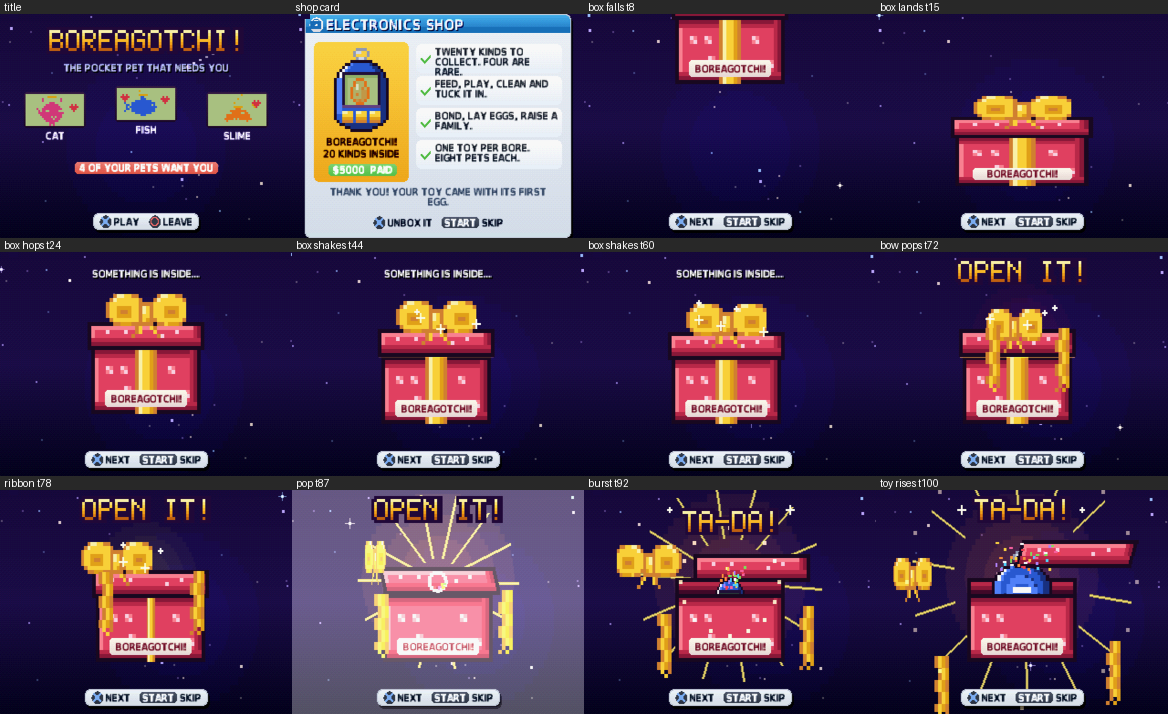
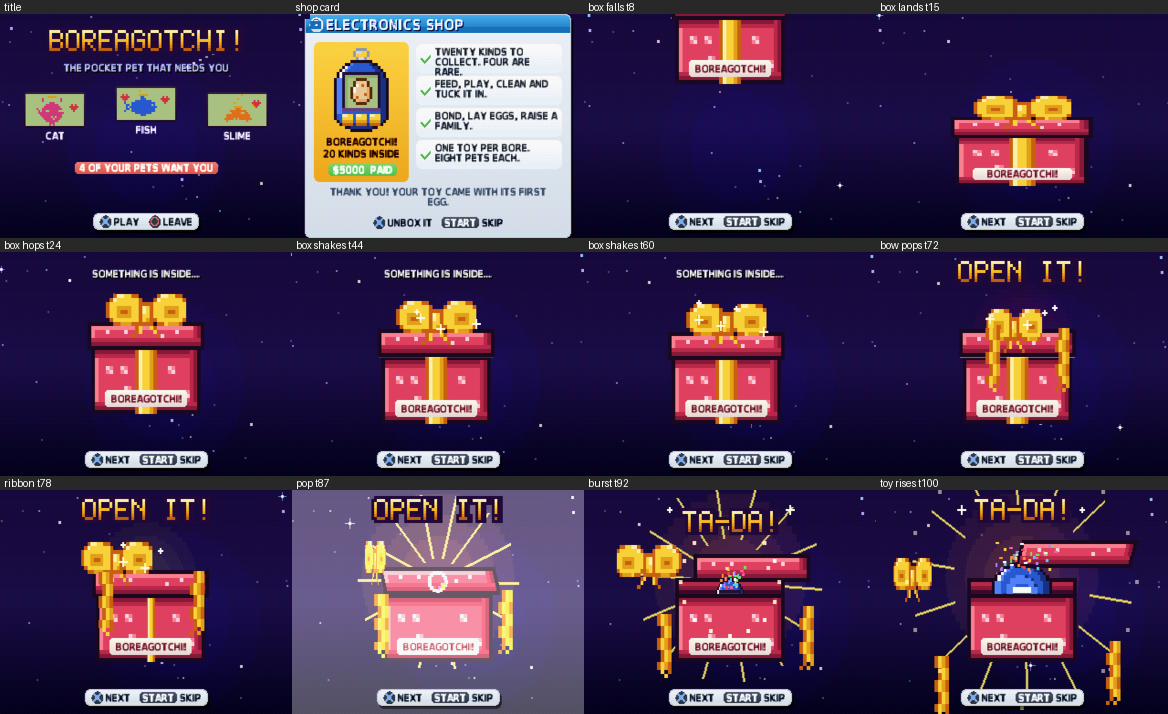
Boreagotchi eggs: table-driven egg_rgb shared by LCD, toy and hatching, docs, shots, numbers
Claude-Session: https://claude.ai/code/session_01HmRg38Ho1eHKsYp7LCd8R6

diff --git a/src/gotchi_ui.c b/src/gotchi_ui.c
@@ -171,7 +171,7 @@ static const char *const *egg_make(int kind, int pat, int crack) {   // the plai
     if (crack && kind < 2) for (int n = 0; n < fsCrkN[kind][crack]; n++) { char *c = &eggBuf[fsCrk[kind][n * 2] >> 4][fsCrk[kind][n * 2] & 15]; *c = (*c == 'o' || *c == 'g') ? 'u' : (char)fsCrk[kind][n * 2 + 1]; }   // (a crack through a spot is light)
     return eggRow;
 }
-static const char eggKeys[] = "#mdhoulg";   // an egg sprite's keys; on the dots they are the values 16 up (egg_rgb makes the colours)
+static const char eggKeys[] = "#mdohulg";   // an egg sprite's keys; on the dots they are the values 16 up (egg_rgb makes the colours)
 static int egg_pat(const Blob *b, const Kin *k) { return (b->sp >= 16 || k->mut) ? FS_EGG_N - 1 : b->sp % (FS_EGG_N - 1); }   // the kind picks the pattern, the rare ones are gold
 static void egg_dots(const char *const *r, int w, int h, int x, int y, int tilt) {   // a sprite onto the dots; its top leans by tilt dots, the foot stays
     for (int j = 0; j < h; j++) { int sh = tilt * (h - 1 - j) / (h - 1); for (int i = 0; i < w; i++) if (r[j][i] != '.') P(x + i + sh, y + j, 16 + (int)(strchr(eggKeys, r[j][i]) - eggKeys)); }
@@ -223,19 +223,16 @@ static void scene(const Blob *b, const Kin *k, int fr, int look, int mood) {
 }
 static const u8 PAL[10][3] = { { 28, 44, 24 }, { 214, 58, 120 }, { 40, 92, 214 }, { 226, 112, 24 }, { 126, 64, 200 }, { 20, 150, 140 }, { 196, 40, 44 }, { 218, 160, 10 }, { 54, 44, 90 }, { 214, 222, 234 } };
 static const u8 INKV[5][3] = { { 0, 0, 0 }, { 0, 0, 0 }, { 214, 50, 70 }, { 48, 96, 214 }, { 220, 160, 18 } };
-static void egg_rgb(int ink, int key, u8 *o) {   // an egg's colour for a key (see eggKeys), from the pet's colour (PAL row): a cream body leaning to it, a shade, spots, a dark outline of it
-    static const u8 cr[3] = { 240, 238, 206 }; const u8 *in = PAL[ink % 10];
-    for (int i = 0; i < 3; i++) switch (key) {
-        case '#': o[i] = (u8)(in[i] * 42 / 100); break; case 'm': o[i] = (u8)((cr[i] * 74 + in[i] * 26) / 100); break; case 'd': o[i] = (u8)((cr[i] * 48 + in[i] * 52) / 100); break;
-        case 'o': o[i] = (u8)(in[i] * 92 / 100); break; case 'h': o[i] = i == 2 ? 240 : 255; break; case 'u': o[i] = i == 0 ? 255 : i == 1 ? 250 : 190; break;
-        case 'g': o[i] = i == 0 ? 255 : i == 1 ? 208 : 60; break; default: o[i] = i == 0 ? 150 : i == 1 ? 176 : 108; break; }
+static void egg_rgb(int ink, int key, u8 *o) {   // an egg's colour for a key (an index in eggKeys), from the pet's colour (PAL row): a cream body leaning to it, a shade, spots, a dark outline of it
+    static const u8 mx[4][2] = { { 0, 42 }, { 74, 26 }, { 48, 52 }, { 0, 92 } }, fx[4][3] = { { 255, 255, 240 }, { 255, 250, 190 }, { 150, 176, 108 }, { 255, 208, 60 } }, cr[3] = { 240, 238, 206 };
+    const u8 *in = PAL[ink % 10]; for (int i = 0; i < 3; i++) o[i] = key < 4 ? (u8)((cr[i] * mx[key][0] + in[i] * mx[key][1]) / 100) : fx[key - 4][i];
 }
 // the dots onto the screen: runs of one ink are joined into one box, a thin gap under each row gives the LCD its lines
 static void dots_draw(int x, int y, int s, int c0, int c1, int xa, int xb) {
     for (int j = c0; j < c1; j++) {
         for (int i = xa; i < xb;) {
             int v = dot[j][i]; if (!v) { i++; continue; } int k = i; while (k < xb && dot[j][k] == v) k++;
-            u8 e[3]; const u8 *c; if (v >= 16) { egg_rgb(lcdCol, eggKeys[v - 16], e); c = e; } else c = lcdCol == 8 ? PAL[8] : v == 1 ? PAL[lcdCol] : INKV[v];
+            u8 e[3]; const u8 *c; if (v >= 16) { egg_rgb(lcdCol, v - 16, e); c = e; } else c = lcdCol == 8 ? PAL[8] : v == 1 ? PAL[lcdCol] : INKV[v];
             gfx_rect(x + (i - xa) * s, y + (j - c0) * s, (k - i) * s, (s >= 3 && v < 16) ? s - 1 : s, c[0], c[1], c[2], 0); i = k;   // (an egg is square dots, no gap)
         }
     }

diff --git a/tools/make_gotchi_first.py b/tools/make_gotchi_first.py
@@ -330,7 +330,7 @@ def preview(path):
 def emit_json(path):   # the same art for any other port: {sprites: {name: [rows]}, palette: {key: [r, g, b]}, mapped: how the game colours the keys it sets, font: {char: 7 rows of 5}}
     import json
     f = {c: [v[i * 5:i * 5 + 5] for i in range(7)] for c, v in FNT.items()}
-    mapped = {'S': 'shell, owner colour + 40', 's': 'shell, owner colour', 'z': 'shell, owner colour * 0.6', 'L': 'LCD on (172,196,128) / off (58,72,70)', 'l': 'LCD shade on (150,176,108) / off (44,56,56)', '#': 'egg outline: pet colour * 0.42', 'm': 'egg body: cream (240,238,206) 74% + pet colour 26%', 'd': 'egg shade: cream 48% + pet colour 52%', 'o': 'egg spots: pet colour * 0.92', 'h': 'highlight (255,255,240)', 'u': 'light in a crack (255,250,190)', 'g': 'gold (255,208,60)', 'l': 'LCD shade (150,176,108), the ground shadow'}
+    mapped = {'S': 'shell, owner colour + 40', 's': 'shell, owner colour', 'z': 'shell, owner colour * 0.6', 'L': 'LCD on (172,196,128) / off (58,72,70)', 'l': 'LCD shade on (150,176,108) / off (44,56,56); also the egg\'s ground shadow', '#': 'egg outline: pet colour * 0.42', 'm': 'egg body: cream (240,238,206) 74% + pet colour 26%', 'd': 'egg shade: cream 48% + pet colour 52%', 'o': 'egg spots: pet colour * 0.92', 'h': 'highlight (255,255,240)', 'u': 'light in a crack (255,250,190)', 'g': 'gold (255,208,60)', }
     eg = {'patterns': {'EGG%s%d' % (k_, p_): egg_runs(k_, p_) for k_ in 'BLS' for p_ in range(EGG_N)}, 'cracks': {k_: {'cells': crack_cells(k_)[0], 'stage_counts': crack_cells(k_)[1]} for k_ in 'BL'}}
     spr = dict(S); spr.update(FULL)
     json.dump({'sprites': spr, 'egg_parts': eg, 'palette': {k: list(v) for k, v in FPAL.items()}, 'mapped': mapped, 'font': f}, open(path, 'w'), indent=0)

diff --git a/docs/GOTCHI_FIRST_ART.md b/docs/GOTCHI_FIRST_ART.md
@@ -1,14 +1,24 @@
 # Boreagotchi first-run art (portable data for the DS port)
 
 Made by `python3 tools/make_gotchi_first.py [preview.png]`. It writes two files with the same data:
-- `src/gotchi_first_art.h`: plain C. `FS_<NAME>[]` = array of row strings, `FS_<NAME>_W`, `FS_<NAME>_H`. Also `FS_FONT_CH`, `FS_FONT[]` (5x7 glyphs, 35 chars each, '#' = on), `FS_PAL[][4]` (key char, r, g, b), `FS_PAL_N`.
-- `docs/gotchi_first_art.json`: `sprites`, `palette`, `mapped`, `font`. Same content for tools.
+- `src/gotchi_first_art.h`: plain C. `FS_<NAME>[]` = array of row strings, `FS_<NAME>_W`, `FS_<NAME>_H`. Also `FS_FONT_CH`, `FS_FONT[]` (5x7 glyphs, 35 chars each, '#' = on), `FS_PAL[][4]` (key char, r, g, b), `FS_PAL_N`, and the egg parts (below: `FS_EGG?_P0..6`, `FS_CRACK?`, `FS_CRACK?_N`, `FS_EGG_N`).
+- `docs/gotchi_first_art.json`: `sprites` (every sprite, and every egg and crack overlay in full), `egg_parts` (the same patterns and cracks as the header has them), `palette`, `mapped`, `font`. Same content for tools.
 
-Sprites (one char = one art pixel, '.' = clear): BOX_BODY 30x17, BOX_LID 32x7, BOX_MOUTH 30x5, RIB_BODY, RIB_LID, BOW 22x12, TAIL_L, TAIL_R, TOY_FRONT / TOY_BACK 22x28 (handheld toy), EGG0-3 14x17 (4 wobble frames) and EGGS0-3 7x9 (small), CRACK1-3 (overlays), EGGCUP (bottom shell), SHARD0-3 (4x4), SPK_S/M/L (twinkles).
+Sprites (one char = one art pixel, '.' = clear): BOX_BODY 30x17, BOX_LID 32x7, BOX_MOUTH 30x5, RIB_BODY, RIB_LID, BOW 22x12, TAIL_L, TAIL_R, TOY_FRONT / TOY_BACK 22x28 (handheld toy), EGGB / EGGL / EGGS (the plain egg in three sizes, below), EGGCUP (bottom shell, 14x9 with its shadow), SHARD0-3 (4-5 dots), SPK_S/M/L (twinkles). TOY_FRONT's LCD is 12x11 art pixels (rows 9-19), so the 8x9 egg sits in the middle of it with a dot to spare above and below; the buttons are one row lower than in the first version.
 
 Colour keys:
 - Fixed keys are in `FS_PAL` (gold, box red, ribbon, LCD green, outline, white).
-- Mapped at run time (see `f_setup` in src/gotchi_first.inc): shell `S`/`s`/`z` = owner colour light/base/dark; LCD `L`/`l` = 172,196,128 / 150,176,108 when on, dark grey when off; egg ink `#` = pet colour, `m d o` = pet colour mixed into the LCD green 22 / 48 / 72 percent, `h` = highlight (LCD green 55 percent to white), `u` = 255,248,190.
+- Mapped at run time (see `f_setup` in src/gotchi_first.inc): shell `S`/`s`/`z` = owner colour light/base/dark; LCD `L`/`l` = 172,196,128 / 150,176,108 when on, dark grey when off (`l` is also the egg's ground shadow). Egg keys (the same sums are `egg_rgb` in src/gotchi_ui.c, so the dots of the LCD, the toy's LCD and the hatching agree; ink = the pet's colour, PAL row of gotchi_ui.c, 0 is the LCD's dark green):
+  `#` outline = ink x 0.42; `m` body = cream (240,238,206) 74% + ink 26%; `d` shade = cream 48% + ink 52%; `o` spots = ink x 0.92; `h` highlight = 255,255,240; `u` light in a crack = 255,250,190; `g` gold = 255,208,60 (the rare egg's stars).
+
+## Eggs (all of them: pet view, basket, home, tree, day card, guide, toy LCD, hatching)
+
+One design in three sizes, all symmetric about the middle (an even width, so the 32-dot LCD's own middle is between dots 15 and 16): a one-dot dark outline, a light body, a shade down the right and along the bottom, a highlight top left, no dithering, a ground shadow in the LCD's shade.
+- `EGGB` 14x17 + 2 shadow rows: the hatching, drawn 5 px a dot (square dots; the baby is drawn at 6). `EGGL` 10x12 + 1 shadow row: one dot of the 32x16 LCD in the pet view (5 px, square, no scanline gap), basket and home (2 px), tree, day card and guide tiles (1 to 2 px); it sits in cols 11-20, rows 2-14. `EGGS` 8x9: inside the toy's LCD (3 px a dot on the shop card, 5 px on the egg card, 2.5 px in the box reveal).
+- Seven patterns per size: 0 freckles, 1 bands, 2 zigzag, 3 patches, 4 polka dots, 5 heart, 6 the rare one (gold stars; used when the kind is 16 or more or the pet has a mutation). The kind picks it (`kind % 6`); the colour is the family colour of the pet, so one kind has one pattern in each of its seven colours.
+- The header holds the plain egg per size and the rest as data: `FS_EGG?_P<n>[]` = runs of spots `{x | y << 4, length | 128 if gold}` ending in 0,0 (they replace body, shade and highlight cells, the outline stays); `FS_CRACKB[]` / `FS_CRACKL[]` = crack cells `{x | y << 4, key}`, stage n is the first `FS_CRACK?_N[n]` cells (stage 1 a hairline from the top, 2 a long crack with a branch, 3 the split all round with light along it). A crack through a spot is drawn light. The game puts an egg together in a small buffer (`egg_make` in src/gotchi_ui.c); a port may do the same, or take the whole sprites from the JSON (`EGGB0`..`EGGB6`, `EGGL?`, `EGGS?`, `CRACKB1`..`CRACKB3`, `CRACKL1`..`CRACKL3`, overlays drawn over the egg of the same size).
+- Wobble: a lean, the top row-shifted and the foot still, in whole art pixels (`tilt * (h-1-row) / (h-1)`, rounded towards zero on the dots; `fsq` rounds the hatching and toy eggs to whole pixels). The pet view eggs lean 1 to 2 dots in a slow rock now and then (every 24 steps of 3 a second, every 12 once it cracks); the cracks follow the egg's age: 15 minutes a hairline, 17 a long crack, 19 the split (it hatches at 20), the same three stages as the hatching.
+- Hatching: the egg is centred in the LCD (5 px a dot, 6 px of room above and below with its shadow), rocks in the same windows, the cracks above, the LCD brightens as the light grows (no halo round the egg), the baby stands in the bottom shell (EGGCUP, 14x9 with a ragged edge and the light of the inside along it), shards fly.
 
 Drawing: each row is run-length merged into rectangles. Pixel width in 16ths (so scales like 2.5 work), height whole pixels. Extras: tilt (row shear, for wobble), flip, clip box (the LCD). On the DS draw runs as filled rects or blit into a tile; the numbers do not depend on the PS1.
 

diff --git a/docs/GOTCHI_V48.md b/docs/GOTCHI_V48.md
@@ -30,3 +30,18 @@ Shots: before docs/gotchi_first_before_1.png and _2.png; after docs/gotchi_first
 - Code: src/gotchi_first.inc (sky, sprite and banner helpers), src/gotchi_first_ui.inc (screens), src/gotchi_first_art.h and docs/gotchi_first_art.json (made by tools/make_gotchi_first.py). Timeline: UB_POP 86, UB_DONE 130, UB_END 330 (60 Hz ticks).
 - Test hook: build with -DAUTO_GOTCHI=0 -DAUTO_GSEQ and run test/gseq.sh TAG (steps listed in test/gseq_tab.h); it writes docs/gotchi_first_TAG_N.png. A readout of the largest 2D packet use per step is in the script's last comment (peak 17,088 of 59,392 bytes).
 - Size: GOTCHI.OVL 149,156 bytes (+2,632 bss = 151,788 of 156,096). The slot grew from 72 to 76 sectors, so the disc layout changed again; old PPF packs do not fit. Resident RAM: 11,688 bytes free past _end on 2 MB (was 11,720, 32 bytes more for the include and cue glue). Save format unchanged (still VERSION 48; old saves load).
+
+## Eggs redrawn (every egg of the toy)
+
+Shots: before docs/gotchi_egg_before_1.png to _3.png, after docs/gotchi_egg_after_1.png to _3.png (34 tiles each, the real 292x224 crop: toy cards, pet view with every pattern and the three crack stages, basket, home, tree, day card, guide pages 3 and 4, hatching). Portable data and rules: docs/GOTCHI_FIRST_ART.md. The first-run sheets docs/gotchi_first_after_1.png to _3.png were shot again with the new art.
+
+- What was wrong: the pet view egg was dot art (an ellipse with a few holes, cracks as three lines at age 15); the guide tile showed it dark and "cracking" (age 16); the hatching egg was a faint tan body with a yellow halo disc, four patterns, rows of dither; the toy's LCD egg sat on the LCD's bottom row; in the tree a relative that was still an egg was drawn as a grown-up; the home put eggs lower than the other pets.
+- One new design in three sizes (the hatching 14x17, the 32x16 LCD's dots 10x12, the toy's LCD 8x9), symmetric about the LCD's middle, clean one-dot outline in the dark of the pet's colour, cream body leaning to the colour, shade, highlight, ground shadow, no dithering. Seven patterns (freckles, bands, zigzag, patches, polka, heart, and the rare one with gold stars: a kind of 16 or more, or a mutation, which also twinkles on the LCD); the kind picks the pattern, the family colour tints it. All screens draw it from the same data, in the same colours (`egg_rgb`).
+- Square dots: the pet view egg is 5 px by 5 px (no scanline gap, creatures keep theirs); the hatching egg 5 px, centred in its LCD with its shadow (the baby is 6 px, standing in the bottom shell, EGGCUP); basket and home 2 px; tree, day card and guide 1 to 2 px. The toy's LCD is now 12x11 art pixels and the 8x9 egg is in the middle of it (shop card, box reveal, egg card, day one card).
+- Idle wobble: a slow lean of 1 to 2 dots now and then in the pet view (each egg out of step with the others), whole dots, the foot stays; the toy's egg leans one pixel now and then; the hatching rocks in the old windows, in whole pixels.
+- Crack stages follow the age in the pet view (15 hairline, 17 long crack with light, 19 split all round; it hatches at 20) and the clock in the hatching (t34, t52, t72); a crack through a spot is light, so it reads on every pattern. The halo disc is gone: the LCD brightens as the light grows. The shell cup, shards and the baby's place were redone.
+- Tree: a relative that is still an egg is drawn as an egg. Guide tiles: the egg is whole (not cracking), in colour. Home: eggs stand on the floor like the others.
+- The mystery egg (a visitor's rare surprise, `gx_event_do`) is an ordinary egg in the data (no flag is saved), so it looks like any other; a rare kind or mutation shows the gold-star egg. There are no egg pictures on the TREE, DIARY or other icons (they are the UI icons), and the world prop of the toy (g_egg, 8x8 in items) was left alone.
+- Data: src/gotchi_first_art.h holds the plain egg per size, the pattern runs and the crack cells (stored as whole sprites, seven patterns in three sizes overflowed the overlay by 48 bytes in a test build); `egg_make` in src/gotchi_ui.c puts one together in a 300-byte buffer. docs/gotchi_first_art.json also holds every whole egg and crack overlay for the DS port.
+- Test hooks (the AUTO_GVIEWS sweep needs about 470 bytes of its own game set-ups left out to link: it was run that way, every screen fine): build with `-DAUTO_GOTCHI=0 -DAUTO_GSEQ -DAUTO_GEGG` and run `test/gegg.sh TAG` (table test/gegg_tab.h; the optional columns x and a make every slot an egg of its own pattern and set an egg's age); it writes docs/gotchi_egg_TAG_N.png through test/gseq.sh (new variables TABF and PFX).
+- Size: GOTCHI.OVL 150,276 bytes (+3,000 bss = 153,276 of 156,096; was 149,156 + 2,632). Still 76 sectors, so the disc layout is the same. Resident RAM unchanged: 11,688 bytes free past _end on 2 MB (0x80200000 - 0x801fd258). 8 MB boots (DS8MB=1, to the title). Save format unchanged (VERSION 48; an egg's pattern comes from its kind and colour, its cracks from its age, nothing new is stored).

diff --git a/docs/ROADMAP.md b/docs/ROADMAP.md
@@ -21,6 +21,7 @@ Detail for each port: DSI_ROADMAP.md (DS), DREAMCAST.md (Dreamcast), PS1_PERFORM
 - [ ] Clock card is not kept between frames (no packet room).
 - [x] Boreagotchi 3 (save v48): needs (energy, clean), moodlets, wishes, goals and streaks, 8 mini-games (WHACK is the newest) with skills, scripted first day, surprises, 32-line diary. See docs/GOTCHI_V48.md. Old v40/v41 saves load (test/oldsave.sh). Left: v45-47 save test on a real card, DC port of the new rules, sounds are pitched voices only. DS port done at D64 (bore2_dsi_d64.nds, see docs/DSI_ROADMAP.md): everything except tantrums, 20 kinds / 6 forms and per-pet memories by id. BRAINS manners bonus in train is done.
 - [x] Boreagotchi first-run art on PS1 (title, OPEN IT! gift box and toy reveal, egg card, hatching, new starfield, cue sounds). See docs/GOTCHI_V48.md and docs/GOTCHI_FIRST_ART.md; shots docs/gotchi_first_after_1.png to _3.png. Left: the DS port (reuse src/gotchi_first_art.h or docs/gotchi_first_art.json), the egg you carry in the pet view still uses the old dot art, sounds are pitched voices only (no new samples), Dreamcast not checked.
+- [x] Boreagotchi eggs redrawn on PS1 (pet view, basket, home, tree, guide, toy LCD, hatching: one design, three sizes, seven patterns, crack stages, wobble; data in docs/gotchi_first_art.json for the DS). Shots docs/gotchi_egg_before_*.png and gotchi_egg_after_*.png, notes in docs/GOTCHI_V48.md and docs/GOTCHI_FIRST_ART.md. Left: splice the same eggs into the DS Boreagotchi (wip-gotchi), and the 3D toy prop's 8x8 egg texture (items) still uses the old picture.
 - [ ] Old-save load test for the Boreagotchi save (version 45) and REAL TIME (version 44) on a real memory card.
 - [ ] Bus facing at stops, car pitch on real hills, first-person and gas-station vehicle shots.
 - [x] Boreagotchi PS1 text overlaps fixed (commit 9b4fc5c). Test hook -DAUTO_GVIEWS and test/gviews.sh step through every screen; the disc image does not rebuild when only an overlay changes, the script forces it.
